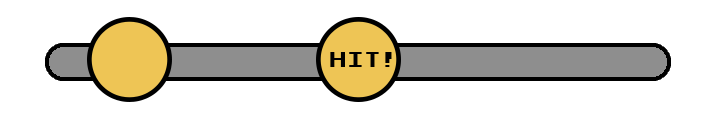
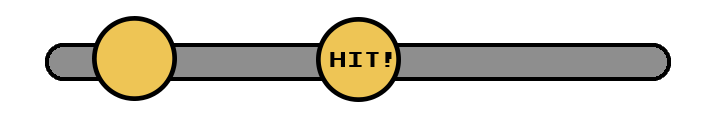
fixed the metronome a little

Changed region(s): [[0.1231, 0.1271, 0.2462, 0.8644]]

diff --git a/main.py b/main.py
@@ -117,18 +117,16 @@ class Game:
 
 
     def BoogieBar(self):
-        if 0 <= self.level.player.move_counter < 3:
-            self.screen.blit(self.sprites[0], (200, 500))
-        elif 5 <= self.level.player.move_counter < 10:
+        if 5 <= self.level.player.move_counter < 10:
             self.screen.blit(self.sprites[1], (200, 500))
         elif 10 <= self.level.player.move_counter < 15:
-            self.screen.blit(self.sprites[2], (200, 500))
-        elif 15 <= self.level.player.move_counter < 20:
             self.screen.blit(self.sprites[3], (200, 500))
+        elif 15 <= self.level.player.move_counter < 20:
+            self.screen.blit(self.sprites[6], (200, 500))
         elif 20 <= self.level.player.move_counter < 25:
-            self.screen.blit(self.sprites[4], (200, 500))
+            self.screen.blit(self.sprites[7], (200, 500))
         elif 25 <= self.level.player.move_counter < 28:
-            self.screen.blit(self.sprites[5], (200, 500))
+            self.screen.blit(self.sprites[9], (200, 500))
         elif self.level.player.move_counter == 28:
             # HIT!
             self.screen.blit(self.sprites[10], (200, 500))
@@ -136,7 +134,6 @@ class Game:
             # HIT!
             self.screen.blit(self.sprites[11], (200, 500))
         elif self.level.player.move_counter == 30:
-            # HIT!
             self.screen.blit(self.sprites[10], (200, 500))
         else:
             self.screen.blit(self.sprites[0], (200, 500))
